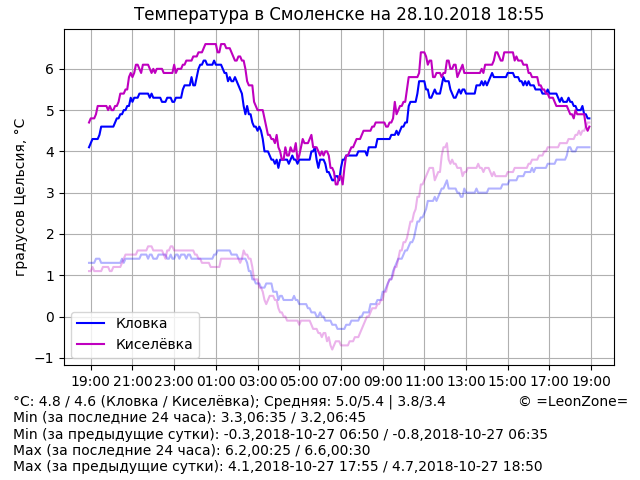
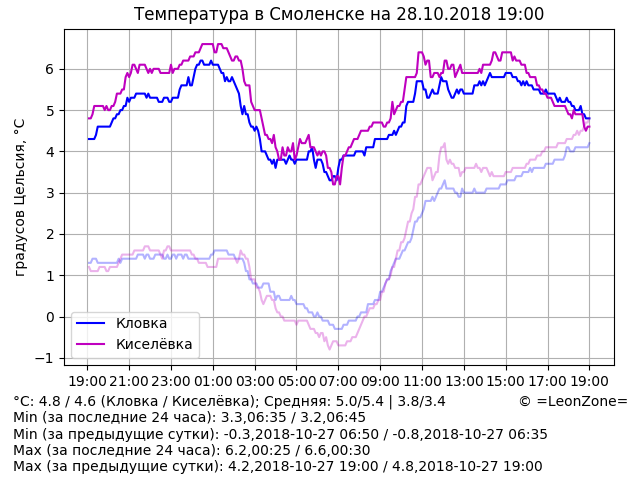
Update data

diff --git a/index.html b/index.html
@@ -18,7 +18,7 @@
 Min (за последние 24 часа): 3.3,06:35 / 3.2,06:45
 Min (за предыдущие сутки): -0.3,2018-10-27 06:50 / -0.8,2018-10-27 06:35
 Max (за последние 24 часа): 6.2,00:25 / 6.6,00:30
-Max (за предыдущие сутки): 4.1,2018-10-27 17:55 / 4.7,2018-10-27 18:50
+Max (за предыдущие сутки): 4.2,2018-10-27 19:00 / 4.8,2018-10-27 19:00
 <!-- /textinfo -->
 	<footer hidden="true">© =LeonZone=</footer>
 </body>
